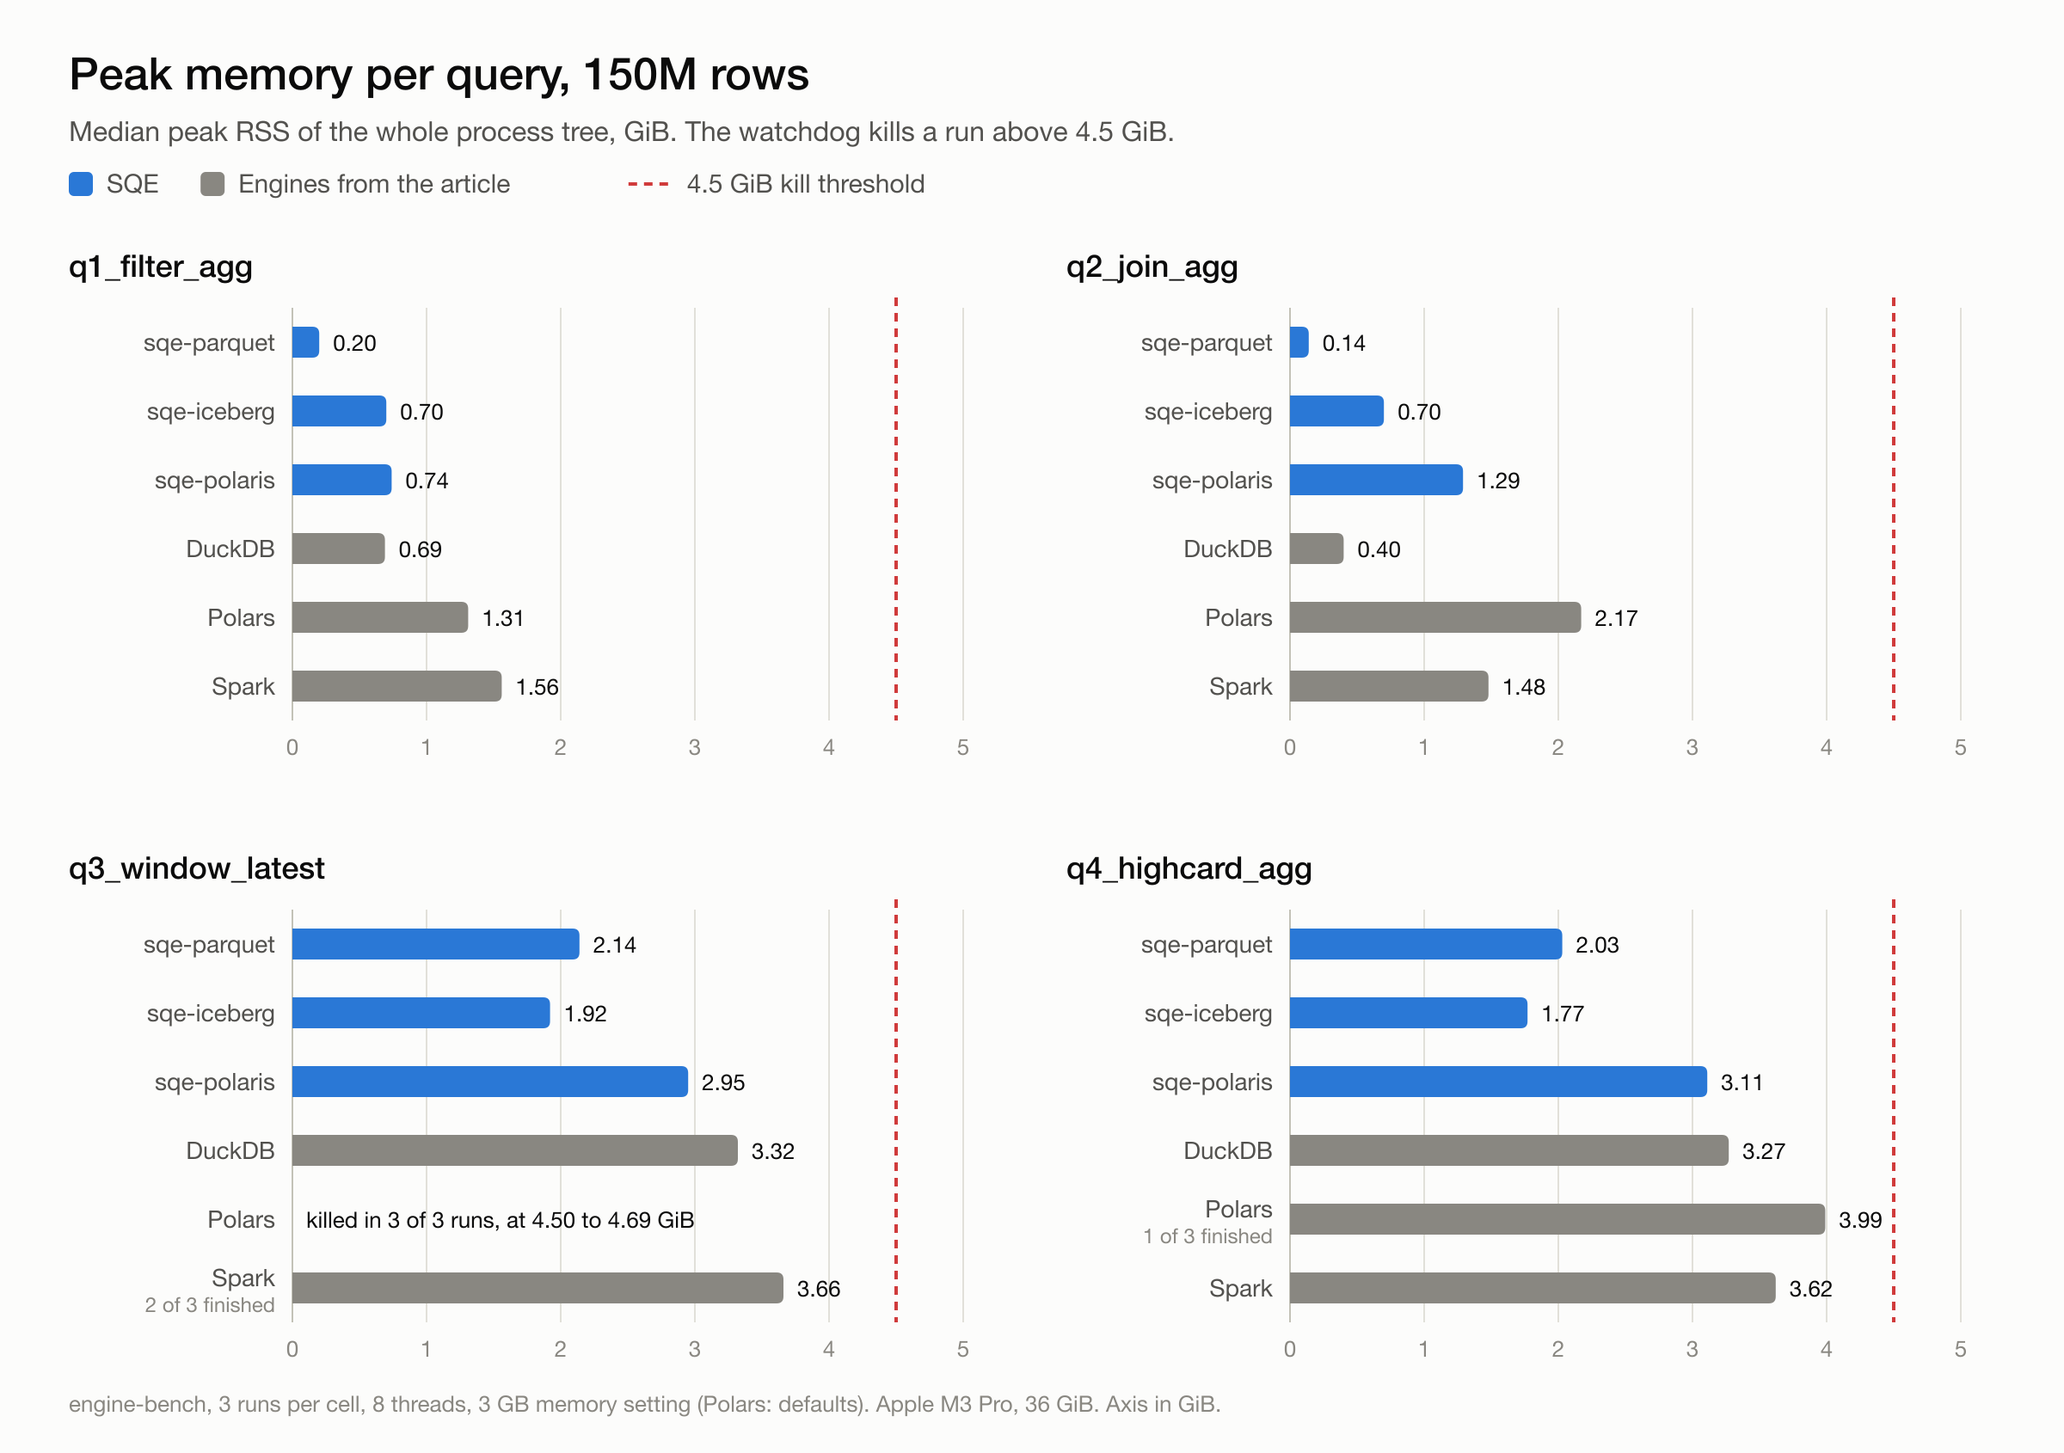
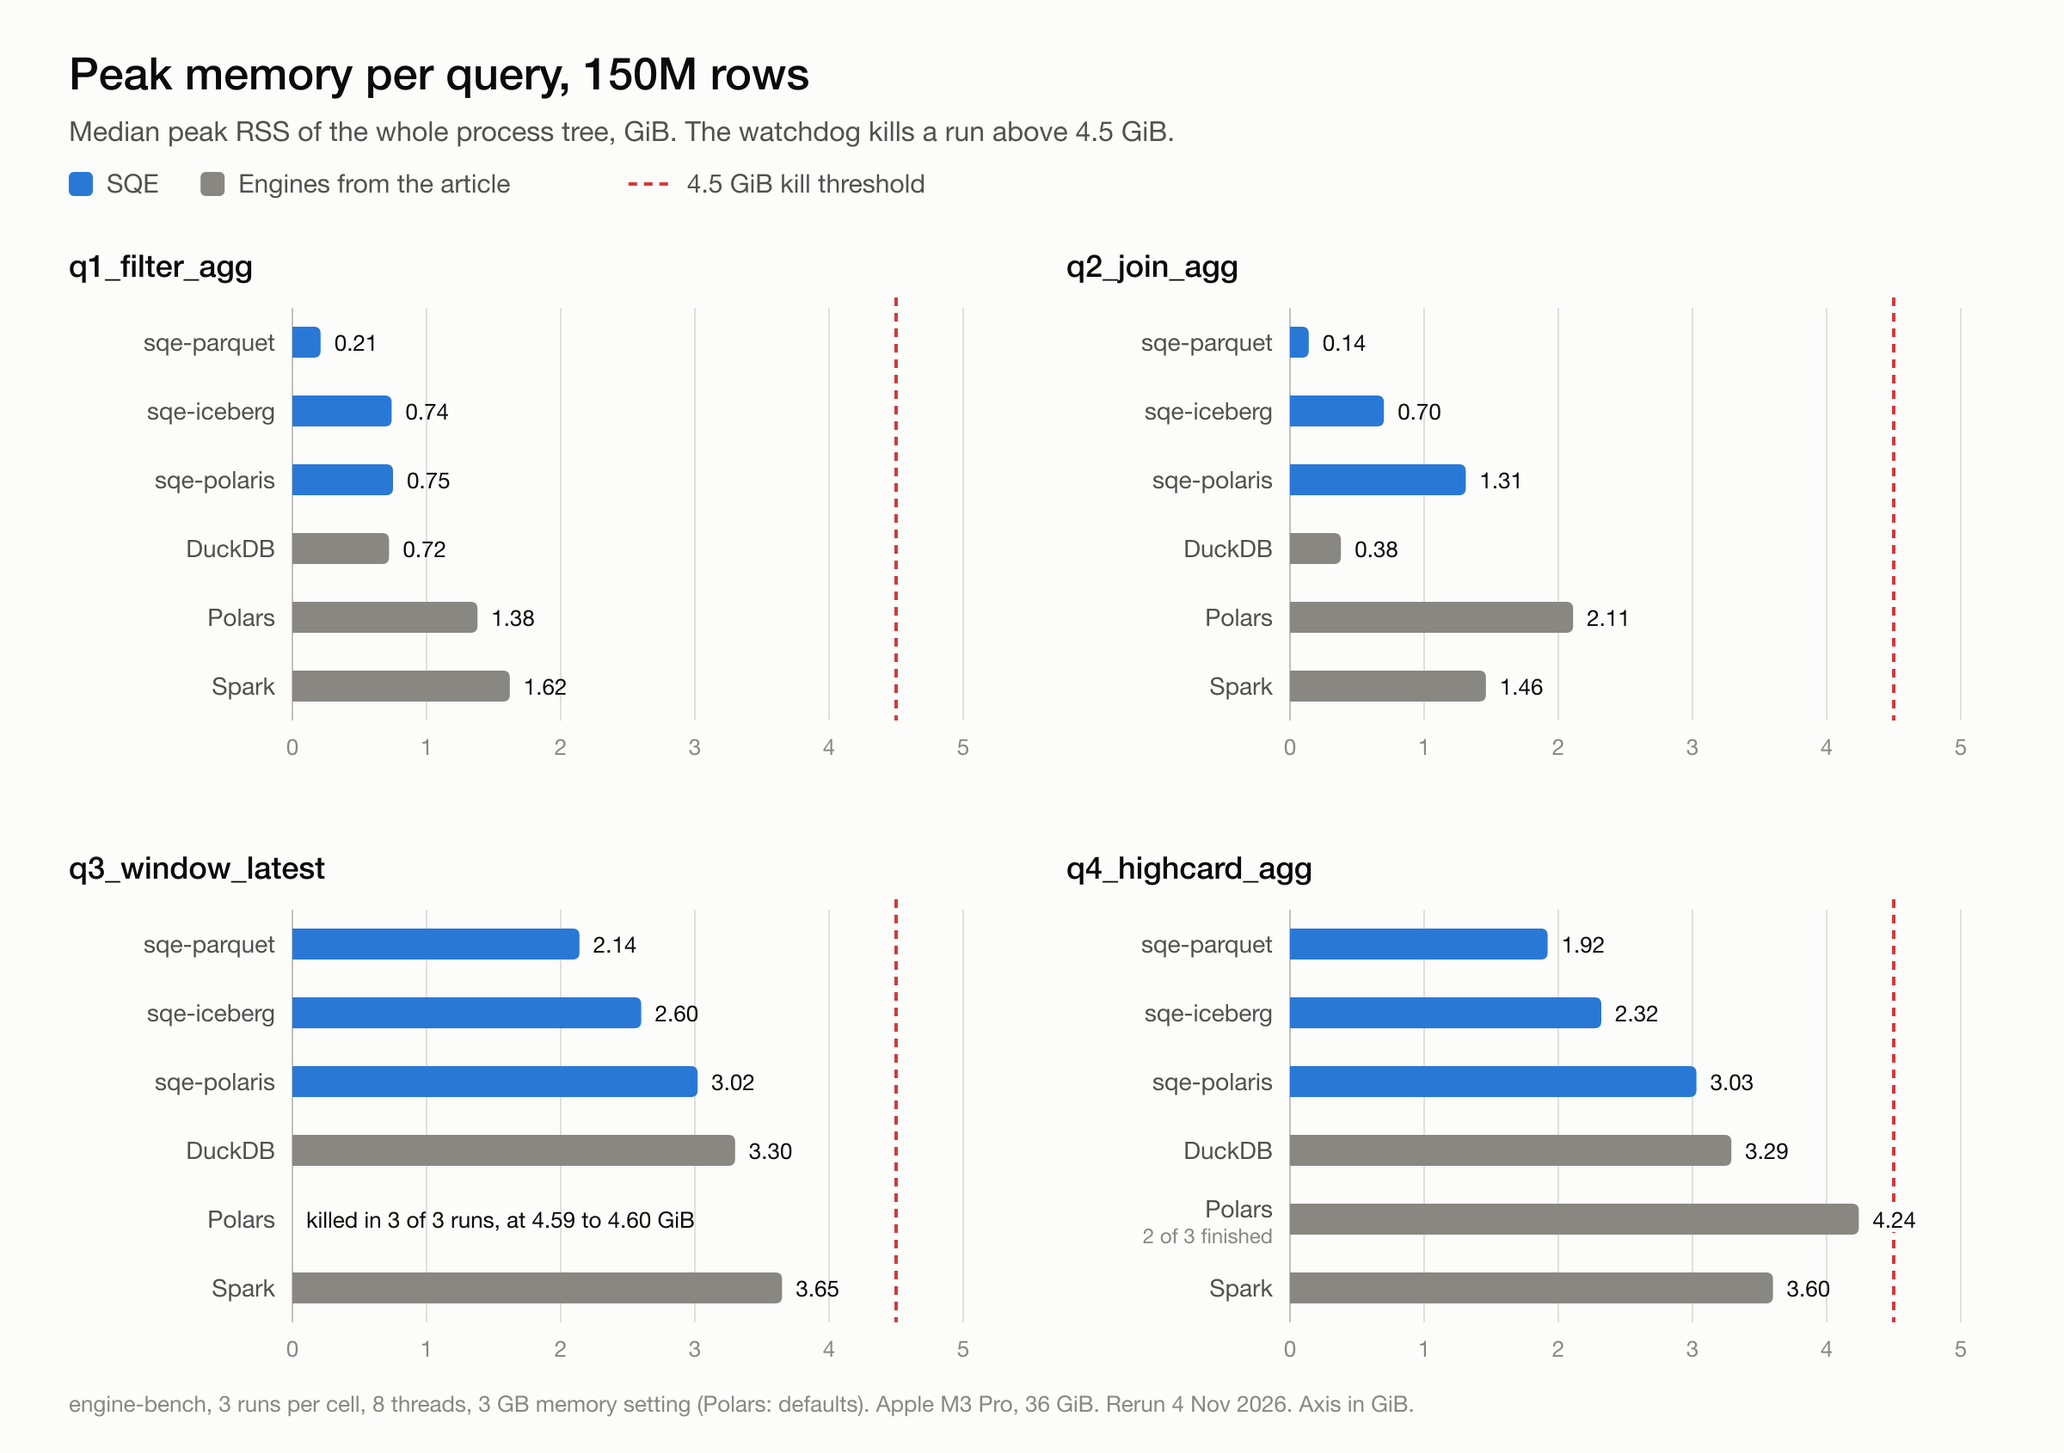
docs(blog): 150M rows post on the 4 Nov engine-bench rerun; S3 numbers after both fixes
Tables, memory chart and prose now come from the 4 November rerun
(both fixes in, Polars 2.1.0, CPU gate 50%), with the gate stated.
The S3 section gets a full post-fix table: sqe-polaris geomean 10.09 s
against DuckDB's 11.04 s on the same storage. Checks not repeated are
dated 2 November. Commits the 4 Nov OUTPUT.md / OUTPUT-s3.md captures.

diff --git a/docs/site/blog/2026-11-02-150m-rows-under-a-4-5-gib-cap.md b/docs/site/blog/2026-11-02-150m-rows-under-a-4-5-gib-cap.md
@@ -12,9 +12,11 @@ tags:
   - "iceberg"
 ---
 
+_Updated 5 November 2026: the tables and the memory chart now come from a rerun on 4 November, with both fixes below in SQE and Polars 2.1.0. The rerun used a CPU gate of 50% instead of 30%. The S3 section is rewritten with numbers taken after the fixes. Checks we did not repeat are dated 2 November._
+
 Firat Celik's [DuckDB 2.0 vs Polars vs Spark on one machine: 150M rows under a 4.5 GiB cap](https://dev.to/firfircelik/duckdb-20-vs-polars-vs-spark-on-one-machine-150m-rows-under-a-45-gib-cap-h38) asks a question most data teams run into: which engine still finishes when memory is tight. Firat ran four queries a data engineer writes every week over 150M rows, with a fresh process per run and a watchdog that kills any engine whose process tree goes above 4.5 GiB. The scripts are public in [engine-bench](https://github.com/firfircelik/engine-bench), with pinned versions and a seeded data generator. Anyone can rerun them.
 
-We did, with SQE added. SQE is our SQL engine for Apache Iceberg, built on Apache DataFusion. We wanted to see where it stands on a workload we did not design, and to learn from whatever broke. The upstream queries, data and runners stay unchanged, at the article's versions: DuckDB 2.0.0, Polars 2.0.0 and PySpark 4.2.0. Every engine's answer is checked against DuckDB's, and all of them match.
+We did, with SQE added. SQE is our SQL engine for Apache Iceberg, built on Apache DataFusion. We wanted to see where it stands on a workload we did not design, and to learn from whatever broke. The upstream queries, data and runners stay unchanged, at the article's versions: DuckDB 2.0.0, Polars 2.0.0 and PySpark 4.2.0. The 4 November rerun uses Polars 2.1.0. Every engine's answer is checked against DuckDB's, and all of them match.
 
 Our results table says SQE takes about half DuckDB's time on the two heavy queries. One of those leads held up. The other came from a busy laptop. Below is how we told them apart, how the article's findings look on our machine, and the two problems the benchmark found in SQE.
 
@@ -37,7 +39,7 @@ SQE runs in three modes:
 | `sqe-iceberg` | `sqe-cli --embedded --warehouse` | A local Iceberg warehouse, loaded once with CTAS |
 | `sqe-polaris` | A native `sqe-server` coordinator, queried over Arrow Flight SQL (ADBC) | Iceberg tables in Polaris, data in RustFS (S3) in Docker |
 
-The rules follow the article. Every engine gets 8 threads. DuckDB, Spark and SQE get a 3 GB memory setting; Polars has no such setting and runs with its defaults, as in the article. Each run is a fresh process. A run waits until the machine has 5 GiB free and is under 30% CPU, and the engine order rotates per repetition. The watchdog samples the RSS of the whole process tree every 50 ms and kills the run above 4.5 GiB. We report medians of 3 repetitions.
+The rules follow the article. Every engine gets 8 threads. DuckDB, Spark and SQE get a 3 GB memory setting; Polars has no such setting and runs with its defaults, as in the article. Each run is a fresh process. A run waits until the machine has 5 GiB free and is under 30% CPU (50% in the 4 November rerun), and the engine order rotates per repetition. The watchdog samples the RSS of the whole process tree every 50 ms and kills the run above 4.5 GiB. We report medians of 3 repetitions.
 
 The machine is different. The article used an 8 vCPU Xeon VM with 15 GiB of RAM. We ran on an Apple M3 Pro laptop with 36 GiB. The thread count and the kill threshold are the same, so the memory picture carries over; absolute times do not.
 
@@ -47,23 +49,23 @@ Median seconds to read, compute and write the answer. Lower is better.
 
 | Query | `sqe-parquet` | `sqe-iceberg` | `sqe-polaris` | DuckDB | Polars | Spark |
 |---|---:|---:|---:|---:|---:|---:|
-| `q1_filter_agg` | 0.61 | 0.75 | 7.17 | 0.68 | **0.58** | 5.45 |
-| `q2_join_agg` | **1.06** | 1.14 | 4.97 | 1.38 | 1.14 | 10.02 |
-| `q3_window_latest` | **4.72** | 6.57 | 13.91 | 9.03 | killed | 30.91 |
-| `q4_highcard_agg` | **4.11** | 5.58 | 13.79 | 8.26 | 4.17 | 30.90 |
-| geomean | **1.88** | 2.36 | 9.10 | 2.89 | - | 15.11 |
+| `q1_filter_agg` | 0.65 | 0.78 | 7.99 | 0.71 | **0.55** | 5.83 |
+| `q2_join_agg` | **1.09** | 1.30 | 5.26 | 1.45 | 1.23 | 10.96 |
+| `q3_window_latest` | **3.95** | 4.23 | 15.86 | 7.18 | killed | 34.10 |
+| `q4_highcard_agg` | 3.67 | **3.64** | 14.96 | 7.93 | 4.48 | 34.47 |
+| geomean | **1.79** | 1.99 | 9.99 | 2.77 | - | 16.55 |
 
-Polars wins the filter by 30 ms. SQE on Parquet has the lowest median on the other three queries. All three SQE modes and DuckDB finish every run of every query; Polars and Spark do not.
+Polars wins the filter by 100 ms. SQE has the lowest median on the other three queries: on Parquet for the join and the window query, and on its local Iceberg copy for the group-by, 30 ms ahead of Parquet. All three SQE modes and DuckDB finish every run of every query; Polars and Spark do not.
 
 Those medians flatter SQE on the two heavy queries, so we checked both gaps before writing them down. We ran SQE and DuckDB alone, alternating, and measured CPU time and busy cores next to wall time.
 
-On the window query the gap is noise. Alone, SQE took 4.8 to 4.9 s and DuckDB 4.4 to 5.1 s. The 9.03 s median above came from runs with less free memory on the laptop. DuckDB spills 2.9 GB on this query and SQE 1.4 GB, so DuckDB loses more when the spill files no longer fit in the page cache.
+On the window query the gap is noise. In an isolated check on 2 November, SQE took 4.8 to 4.9 s and DuckDB 4.4 to 5.1 s. DuckDB's medians in the full runs, 9.03 s on 2 November and 7.18 s in the rerun, come from runs with less free memory on the laptop. DuckDB spills 2.9 GB on this query and SQE 1.4 GB, so DuckDB loses more when the spill files no longer fit in the page cache.
 
 On the group-by the gap is real, and it comes from memory. Both engines spend about 30 CPU seconds on q4. What differs is how many cores each one keeps busy under the cap.
 
 The query has 15M groups in 150M rows, so almost every row starts a new group. Pre-aggregating such rows saves nothing, and DataFusion's partial aggregate notices that after the first batches: it passed 149.1M of the 150M rows straight through. The rows are then hash-partitioned by `customer_id` to 8 final aggregates, so each group is held once. SQE stays near 2 GiB at any memory setting.
 
-DuckDB needs 10 to 11 GiB for the same query without a limit, and then the two engines are level: 3.0 to 3.2 s against SQE's 3.3 to 3.5 s. Under the 3 GB setting DuckDB spills about 6 GB and keeps 4 to 5 cores busy where SQE keeps 7.5. That costs it 5 to 8 s. The credit belongs to DataFusion's aggregate. A memory cap is exactly what the article tests, so the result counts. Give DuckDB the memory it asks for and the two finish together.
+In the same 2 November check, DuckDB needed 10 to 11 GiB for the same query without a limit, and then the two engines are level: 3.0 to 3.2 s against SQE's 3.3 to 3.5 s. Under the 3 GB setting DuckDB spills about 6 GB and keeps 4 to 5 cores busy where SQE keeps 7.5. That costs it 5 to 8 s. The credit belongs to DataFusion's aggregate. A memory cap is exactly what the article tests, so the result counts. Give DuckDB the memory it asks for and the two finish together.
 
 ## Memory
 
@@ -73,23 +75,23 @@ Median peak RSS of the whole process tree, in GiB. The cap is 4.5.
 
 | Query | `sqe-parquet` | `sqe-iceberg` | `sqe-polaris` | DuckDB | Polars | Spark |
 |---|---:|---:|---:|---:|---:|---:|
-| `q1_filter_agg` | 0.20 | 0.70 | 0.74 | 0.69 | 1.31 | 1.56 |
-| `q2_join_agg` | 0.14 | 0.70 | 1.29 | 0.40 | 2.17 | 1.48 |
-| `q3_window_latest` | 2.14 | 1.92 | 2.95 | 3.32 | killed | 3.66 |
-| `q4_highcard_agg` | 2.03 | 1.77 | 3.11 | 3.27 | 3.99 | 3.62 |
+| `q1_filter_agg` | 0.21 | 0.74 | 0.75 | 0.72 | 1.38 | 1.62 |
+| `q2_join_agg` | 0.14 | 0.70 | 1.31 | 0.38 | 2.11 | 1.46 |
+| `q3_window_latest` | 2.14 | 2.60 | 3.02 | 3.30 | killed | 3.65 |
+| `q4_highcard_agg` | 1.92 | 2.32 | 3.03 | 3.29 | 4.24 | 3.60 |
 
 Finished runs out of three:
 
 | Query | `sqe-parquet` | `sqe-iceberg` | `sqe-polaris` | DuckDB | Polars | Spark |
 |---|---:|---:|---:|---:|---:|---:|
-| `q3_window_latest` | 3/3 | 3/3 | 3/3 | 3/3 | 0/3 | 2/3 |
-| `q4_highcard_agg` | 3/3 | 3/3 | 3/3 | 3/3 | 1/3 | 3/3 |
+| `q3_window_latest` | 3/3 | 3/3 | 3/3 | 3/3 | 0/3 | 3/3 |
+| `q4_highcard_agg` | 3/3 | 3/3 | 3/3 | 3/3 | 2/3 | 3/3 |
 
 Every other cell is 3/3.
 
-The three engines from the article behave here the way the article says they do. "Polars is not slow," as the article puts it, and it is fast when it fits, but it is killed on the window query in all three runs, at 4.50 to 4.69 GiB. It finishes the high-cardinality group-by once in three. Spark's query time is three to eight times DuckDB's, in line with the article's 4.3x to 7.9x, and it loses one window run in three. The article lost it to the watchdog at 7.51 GiB and noted that "`spark.driver.memory = 3g` did not keep the process at 3 GiB." We lost it inside the JVM, to a `SparkOutOfMemoryError` (`UNABLE_TO_ACQUIRE_MEMORY`) at 3.53 GiB. DuckDB finishes everything, with the window and group-by queries at 3.3 GiB.
+The three engines from the article behave here the way the article says they do. "Polars is not slow," as the article puts it, and it is fast when it fits, but it is killed on the window query in all three runs, at 4.59 to 4.60 GiB. It finishes the high-cardinality group-by in two runs of three. Spark's query time is four to eight times DuckDB's, in line with the article's 4.3x to 7.9x. The article lost one Spark window run to the watchdog at 7.51 GiB and noted that "`spark.driver.memory = 3g` did not keep the process at 3 GiB." On 2 November we lost one inside the JVM, to a `SparkOutOfMemoryError` (`UNABLE_TO_ACQUIRE_MEMORY`) at 3.53 GiB. In the rerun, all three finished. DuckDB finishes everything, with the window and group-by queries at 3.3 GiB.
 
-SQE on Parquet stays at 2.0 to 2.1 GiB on the two heavy queries and under 0.25 GiB on the two light ones. The filter and the join aggregate as the rows stream past, and the aggregate state is small, so the 3 GB limit is never close.
+SQE on Parquet stays at 1.9 to 2.1 GiB on the two heavy queries and under 0.25 GiB on the two light ones. The filter and the join aggregate as the rows stream past, and the aggregate state is small, so the 3 GB limit is never close.
 
 ## Next to the article's numbers
 
@@ -97,16 +99,16 @@ Our machine is not the article's, so the first check is whether the three engine
 
 | Query | DuckDB, article | DuckDB, here | Polars, article | Polars, here | Spark, article | Spark, here |
 |---|---:|---:|---:|---:|---:|---:|
-| `q1_filter_agg` | 0.87 | 0.97 | 0.96 | 0.89 | 10.77 | 10.52 |
-| `q2_join_agg` | 1.47 | 1.68 | 1.46 | 1.50 | 16.10 | 15.10 |
-| `q3_window_latest` | 7.92 | 9.93 | killed | killed | 46.29 (2/3) | 37.11 (2/3) |
-| `q4_highcard_agg` | 7.91 | 8.62 | 4.21 (1/3) | 4.50 (1/3) | 39.70 | 36.08 |
+| `q1_filter_agg` | 0.87 | 0.94 | 0.96 | 0.89 | 10.77 | 10.88 |
+| `q2_join_agg` | 1.47 | 1.70 | 1.46 | 1.45 | 16.10 | 15.76 |
+| `q3_window_latest` | 7.92 | 7.47 | killed | killed | 46.29 (2/3) | 39.69 |
+| `q4_highcard_agg` | 7.91 | 8.24 | 4.21 (1/3) | 4.81 (2/3) | 39.70 | 39.98 |
 
-A fraction such as (2/3) counts the finished runs where not every run finished. The three engines keep their shape. The light queries land within 15% of the article's times. On the heavy ones DuckDB is 9 to 25% slower here and Spark 9 to 20% faster. Polars fails on the same query in the same way. Memory moves even less: DuckDB peaks at 3.0 GiB on the heavy queries there and 3.3 GiB here.
+A fraction such as (2/3) counts the finished runs where not every run finished. The three engines keep their shape. The light queries land within 16% of the article's times. On the heavy ones DuckDB is within 6% and Spark between 1% slower and 14% faster. Polars fails on the same query in the same way, although our rerun has Polars 2.1.0: without an out-of-core budget, 2.1.0 is still killed on the window query. Memory moves even less: DuckDB peaks at 3.0 GiB on the heavy queries there and 3.3 GiB here.
 
 The article went further than the four-query run, and two of its follow-ups belong next to our numbers. Polars 2.0.0 with a 3 GiB out-of-core budget (`POLARS_OOC_MEMORY_BUDGET_MB=3072`) was still killed on the window query, and with the cap raised to 9 GiB it was killed at 9.04 to 9.54 GiB. Polars 2.1.0 finished it with a budget: 18.78 s at 3.34 GiB with 3072 MB, 20.11 s at 1.29 GiB with 1024 MB. The article's max-timestamp rewrite of the query ran in 5.12 s on Polars. DuckDB with `memory_limit=1GB` finished the window query in 14.97 s at 1.12 GiB and the group-by in 13.94 s at 1.08 GiB. We have not run SQE at 1 GB yet.
 
-The article's verdict on Polars holds for any engine: "Fast and close to the edge is a fine place for a notebook and a bad place for a scheduled job." Polars on the group-by shows why, peaking at 4.0 GiB and finishing one run in three. We hold SQE to the same bar, so we watch peak memory as closely as time.
+The article's verdict on Polars holds for any engine: "Fast and close to the edge is a fine place for a notebook and a bad place for a scheduled job." Polars on the group-by shows why, peaking at 4.2 GiB and finishing two runs in three. We hold SQE to the same bar, so we watch peak memory as closely as time.
 
 ## What the benchmark found in SQE
 
@@ -161,7 +163,17 @@ So the scan predicate still prunes files, row groups and pages. It is no longer 
 
 The `sqe-polaris` column runs the same engine through a different path. The other engines read Parquet from local disk. `sqe-polaris` reads Iceberg data from RustFS in Docker, and on macOS every byte from a container crosses the Docker Desktop port forward, which moves about 220 MB/s here. The time also includes a catalog round trip, an Arrow Flight SQL fetch and the client writing the result.
 
-The harness can put every engine on the same path. `STORAGE=s3` copies the Parquet into RustFS and points DuckDB, Polars, Spark and `sqe-parquet` at `s3://`. In that mode, measured on 2 November before both fixes, the gap closes. Median q1 query time was 8.0 s on DuckDB, 7.4 s on Polars, 7.6 s on `sqe-parquet` and 9.4 s on `sqe-polaris`. The port forward is the bottleneck for everyone. The Polaris path is still the one SQE is built for: a catalog, a policy-checked plan and the user's own credentials.
+The harness can put every engine on the same path. `STORAGE=s3` copies the Parquet into RustFS and points DuckDB, Polars, Spark and `sqe-parquet` at `s3://`. We reran that mode on 4 November with both fixes in, with the same 50% CPU gate as the local rerun. Median query time in seconds:
+
+| Query | `sqe-parquet` | `sqe-polaris` | DuckDB | Polars | Spark |
+|---|---:|---:|---:|---:|---:|
+| `q1_filter_agg` | 8.13 | **7.82** | 8.24 | 8.07 | 14.10 |
+| `q2_join_agg` | **4.32** | 5.12 | 5.25 | 4.70 | 16.92 |
+| `q3_window_latest` | 16.42 | **16.08** | 20.76 | killed | 50.96 |
+| `q4_highcard_agg` | 13.56 | 16.11 | 16.54 | **12.92** | 44.27 |
+| geomean | **9.40** | 10.09 | 11.04 | - | 27.09 |
+
+On the same storage the gap closes, and it turns around. `sqe-polaris` still pays for the catalog round trip and the Flight SQL fetch, yet its geomean is 10.09 s against DuckDB's 11.04 s reading the same files directly, and it is the fastest engine on the filter and the window query. On 2 November, before both fixes, it was 11.91 s against DuckDB's 10.69 s. Polars is again killed on the window query in all three runs and finishes the group-by in two of three. Every answer matches DuckDB's. The port forward is the bottleneck for everyone. The Polaris path is still the one SQE is built for: a catalog, a policy-checked plan and the user's own credentials.
 
 ## Run it yourself
 
